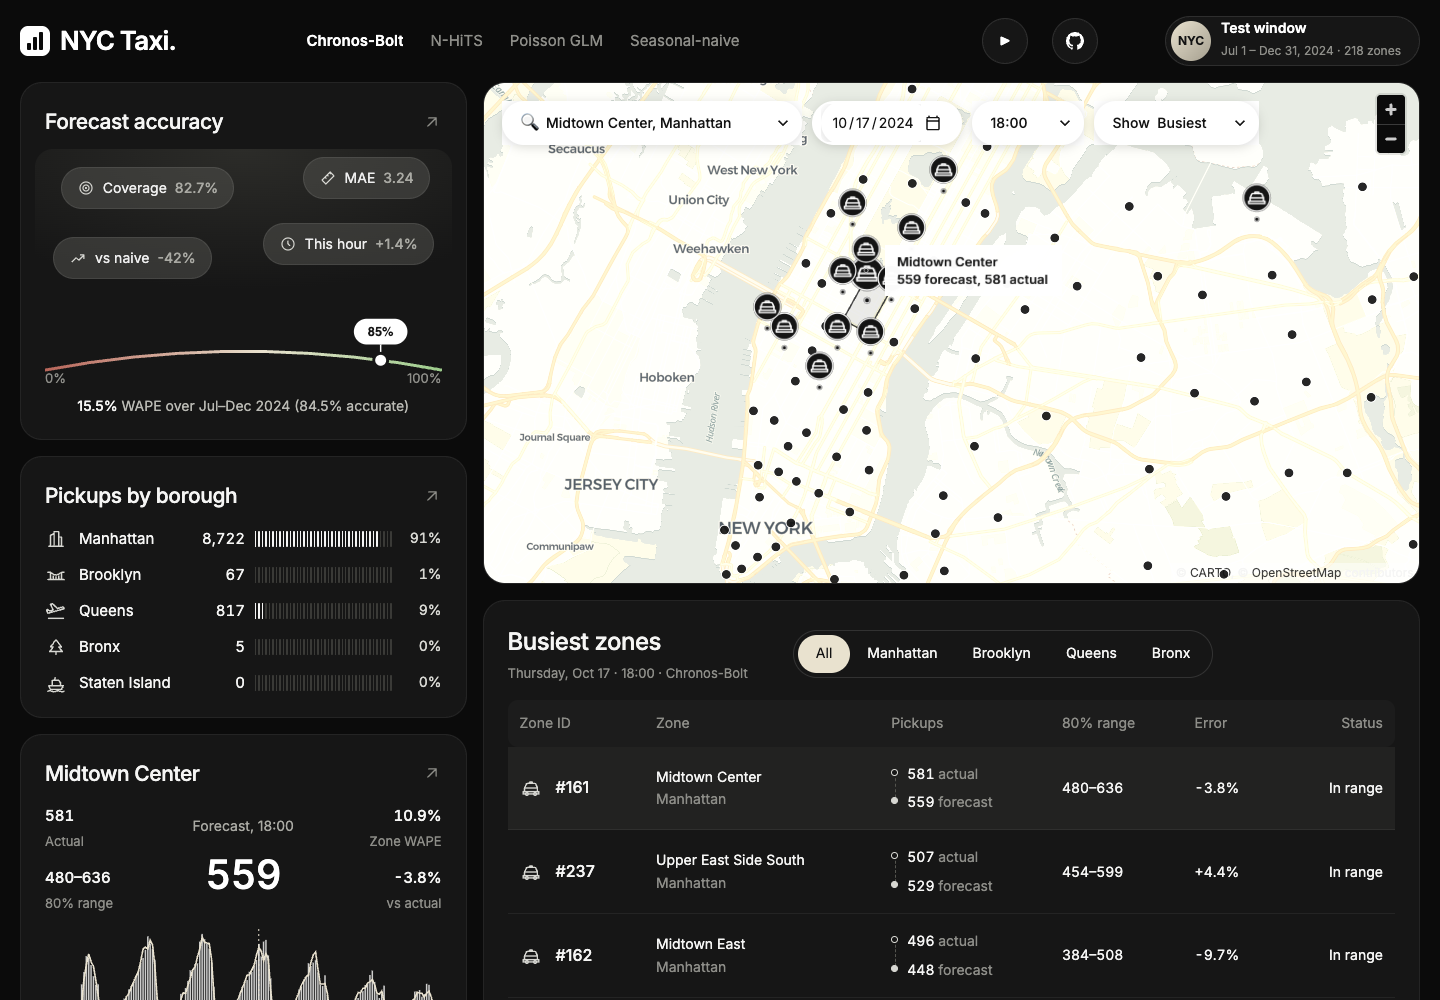
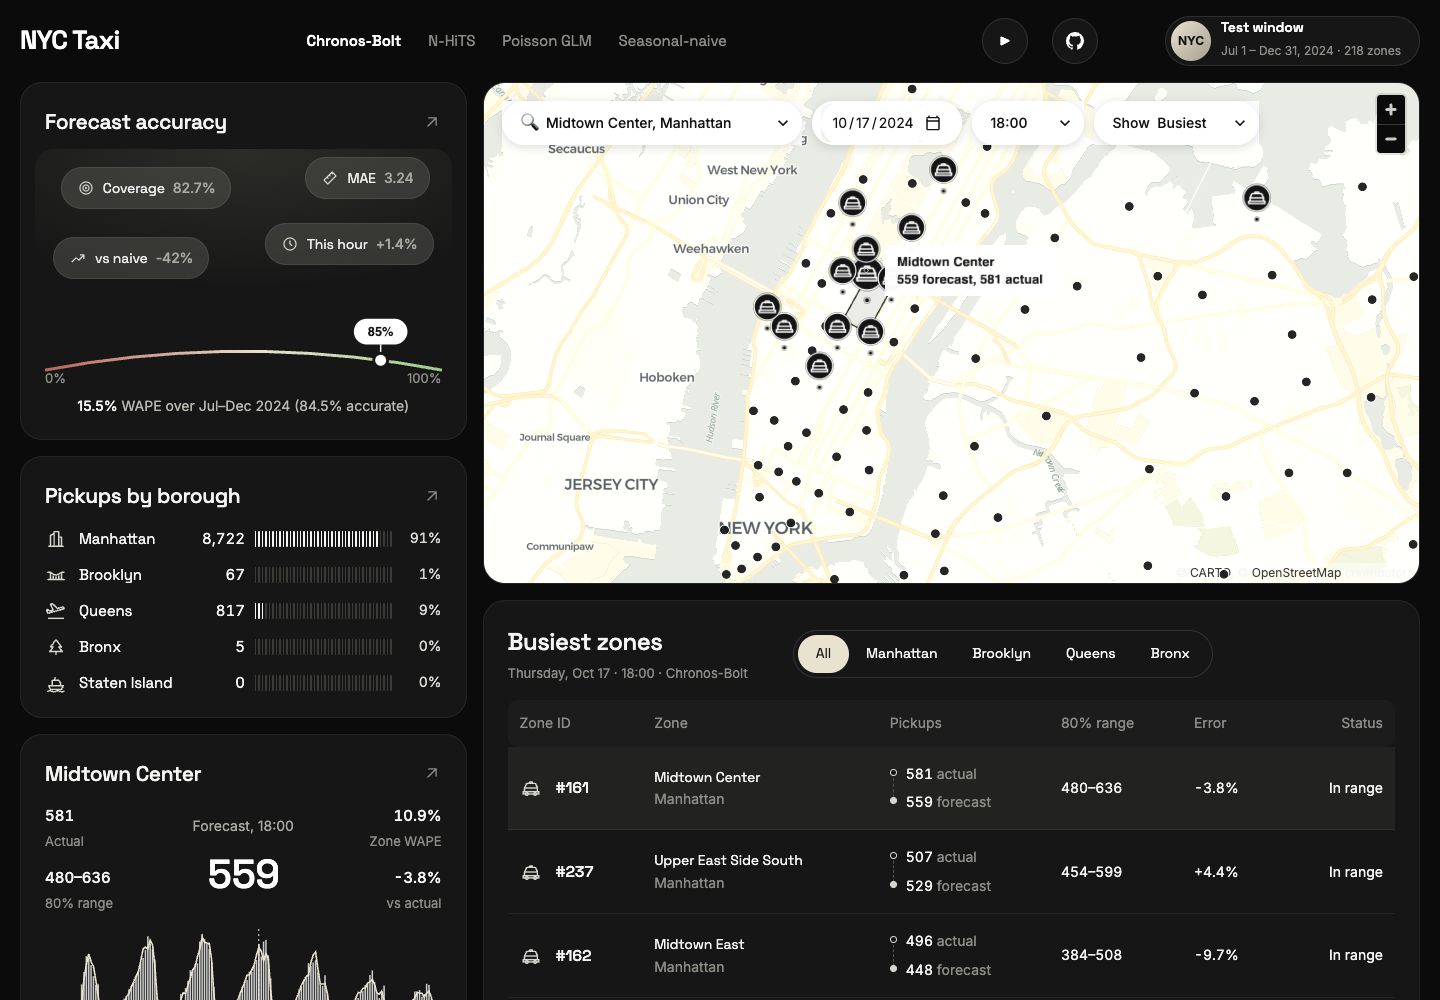
Dashboard: Space Grotesk headings, plain wordmark

diff --git a/app/app.py b/app/app.py
@@ -84,10 +84,15 @@ PIN = {"url": _pin_url(), "width": 72, "height": 84, "anchorY": 84}
 
 CSS = """
 <style>
-@import url('https://fonts.googleapis.com/css2?family=Inter:wght@400;500;600;700&display=swap');
+@import url('https://fonts.googleapis.com/css2?family=Inter:wght@400;500;600;700&family=Space+Grotesk:wght@400;500;600;700&display=swap');
 html, body, .stApp, .stApp * { font-family: Inter, system-ui, -apple-system, "Segoe UI", sans-serif; }
 .stApp { background: #0b0b0b; color: #f5f5f4; }
 header[data-testid="stHeader"], [data-testid="stToolbar"], #MainMenu, footer { display: none !important; }
+/* Space Grotesk for headings, nav and big numbers; Inter for small text */
+.tx-brand, .tx-title, .tx-center b, .tx-id, .tx-profile b, .tx-pill, .tx-row > span:nth-child(2), .tx-two b,
+.st-key-nav_model button p, .st-key-filter_pick button p {
+  font-family: "Space Grotesk", Inter, system-ui, sans-serif !important; letter-spacing: -0.01em;
+}
 .block-container { padding: 1rem 1.25rem 2rem; max-width: 1520px; }
 
 div[class*="st-key-card"] {
@@ -114,8 +119,6 @@ div[class*="st-key-card"] {
 
 /* nav */
 .tx-brand { display: flex; align-items: center; gap: 10px; font-size: 26px; font-weight: 600; letter-spacing: -0.03em; color: #fff; white-space: nowrap; }
-.tx-brand-mark { width: 30px; height: 30px; border-radius: 8px; background: #fff; display: flex; align-items: flex-end; justify-content: center; gap: 2px; padding: 6px 5px; }
-.tx-brand-mark span { width: 4px; border-radius: 1px; background: #0b0b0b; }
 .st-key-nav_model button { background: transparent !important; border: 0 !important; color: #8d8d88 !important;
   padding: 6px 14px !important; box-shadow: none !important; }
 .st-key-nav_model button p { font-size: 15px !important; color: #8d8d88 !important; }
@@ -424,8 +427,7 @@ st.html(CSS)
 
 with st.container(key="nav"):
     brand, tabs, right = st.columns([1.25, 3.2, 2.1], vertical_alignment="center")
-    brand.html("<div class='tx-brand'><div class='tx-brand-mark'><span style='height:40%'></span><span style='height:70%'></span>"
-               "<span style='height:100%'></span></div>NYC Taxi.</div>")
+    brand.html("<div class='tx-brand'>NYC Taxi</div>")
     with tabs:
         model = st.segmented_control("Model", list(MODELS), format_func=MODELS.get, default="chronos_bolt",
                                      key="nav_model", label_visibility="collapsed") or "chronos_bolt"
